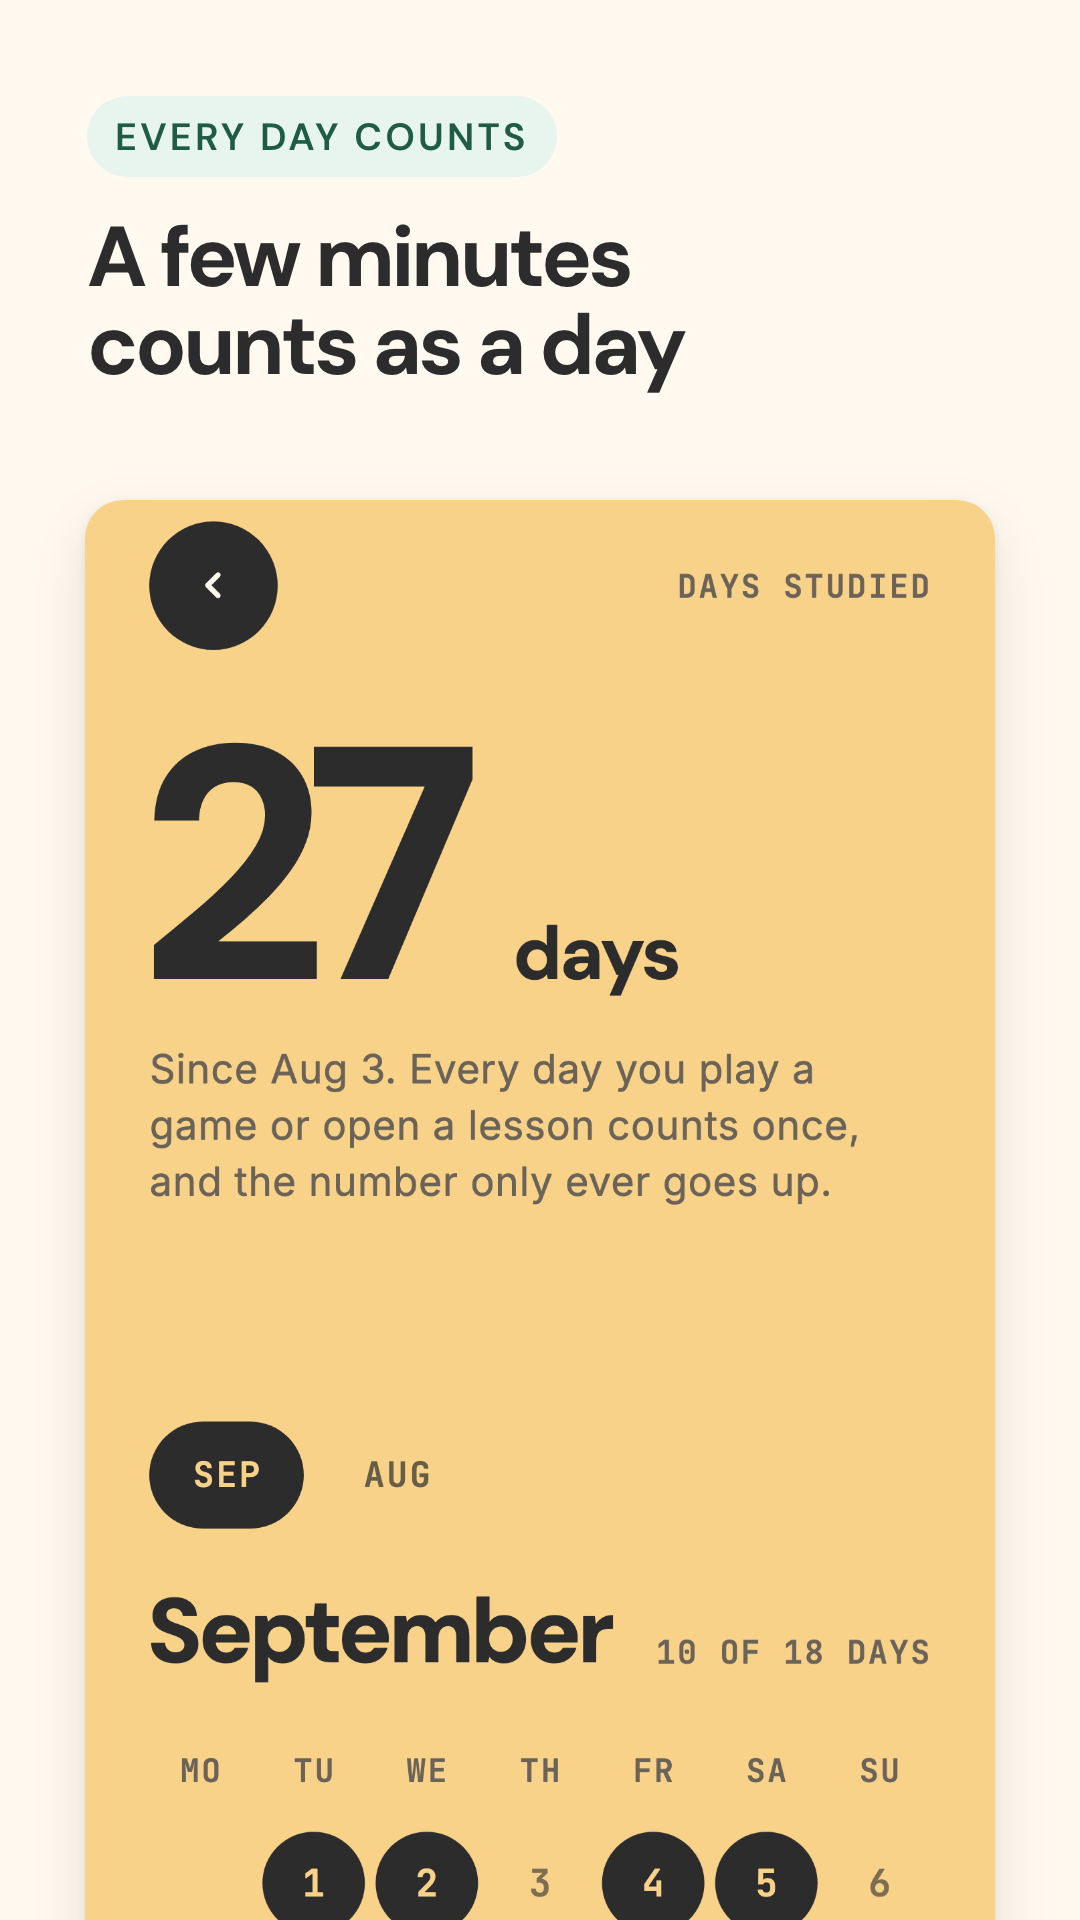
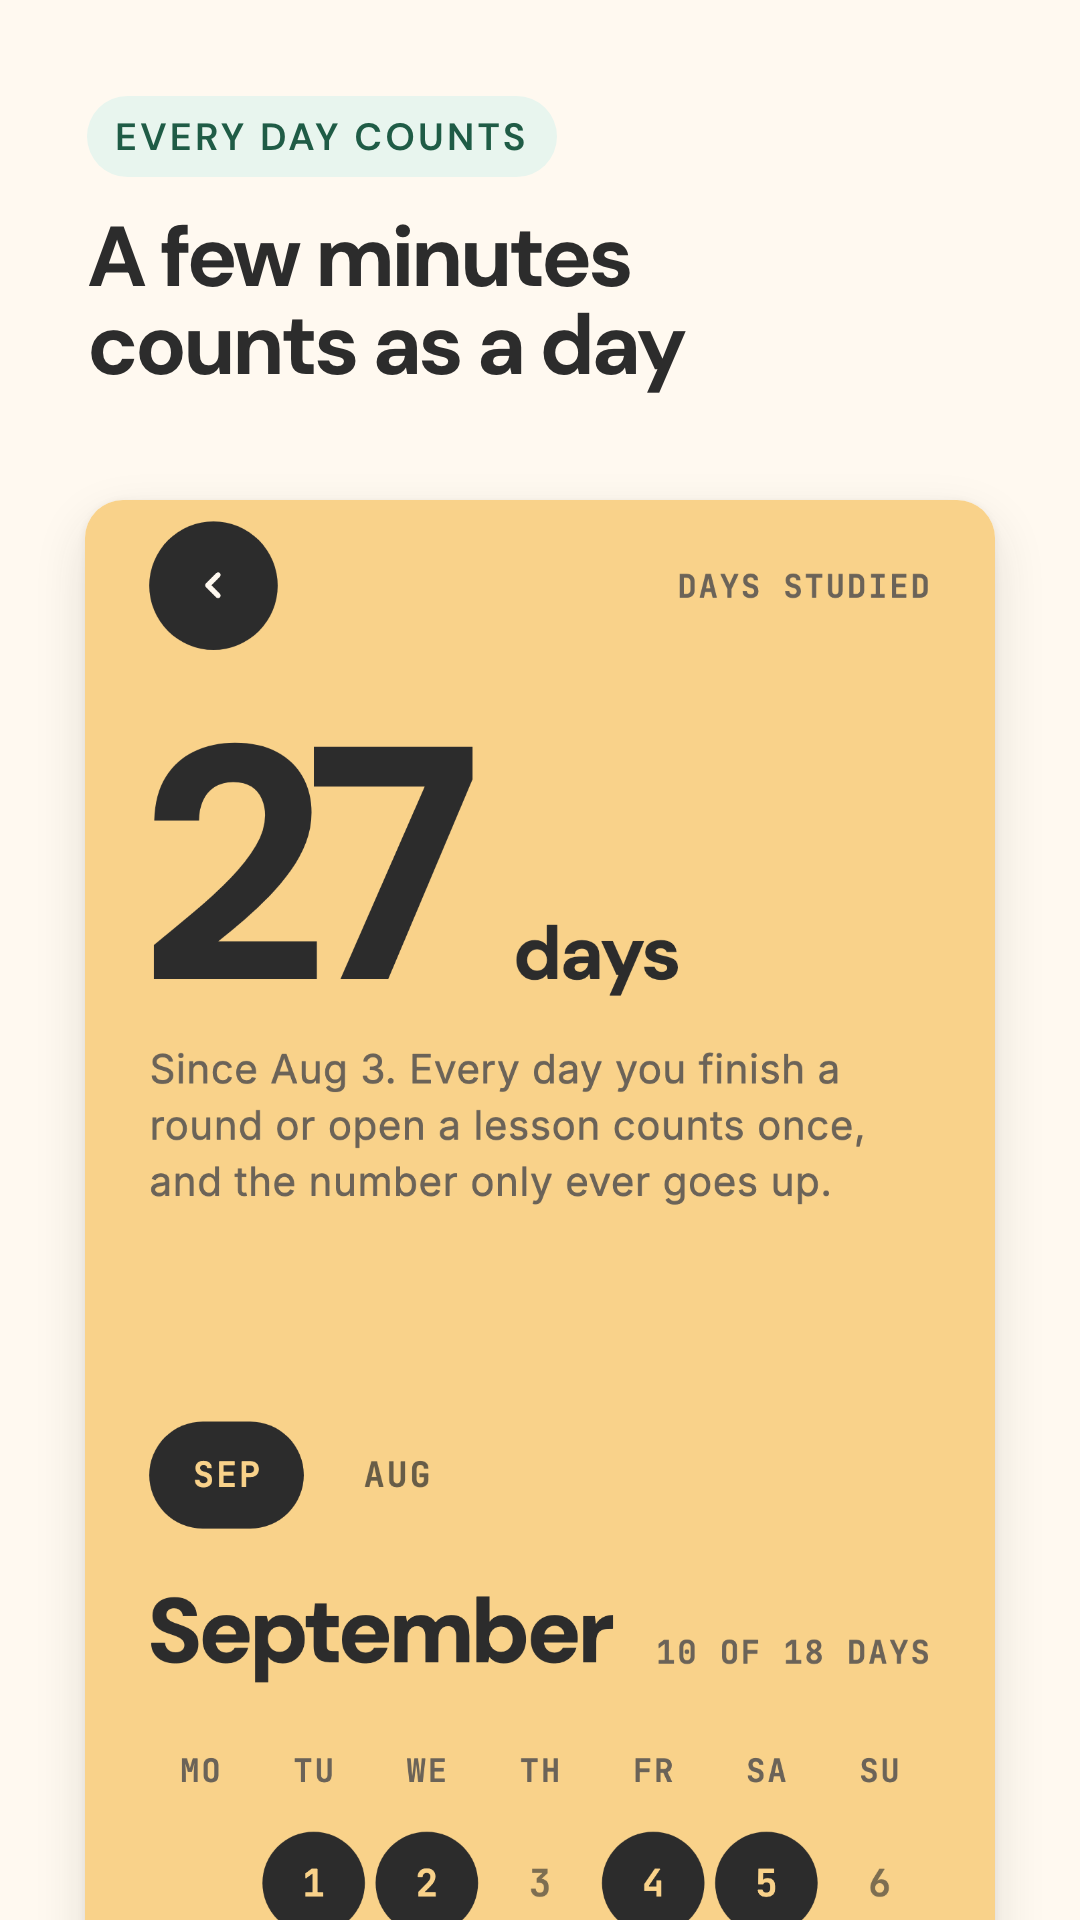
Say 'finish a round', not 'play a game', on the days-studied screen
The owner's rule was that the website must never call the app a game.
The app's own copy still did, in one place, and that one place is in
store screenshot 8 on both stores. Everywhere else the app already
calls them rounds.

Regenerates the golden, the appstore photograph and the Play poster.

Changed region(s): [[0.1528, 0.5312, 0.7944, 0.5938]]

diff --git a/mobile/lib/features/profile/study_days_screen.dart b/mobile/lib/features/profile/study_days_screen.dart
@@ -178,10 +178,10 @@ class _StudyDaysScreenState extends State<StudyDaysScreen> {
                     _failed
                         ? 'Could not load your days. Pull back and try again.'
                         : since == null
-                        ? 'Every day you play a game or open a lesson counts once, '
+                        ? 'Every day you finish a round or open a lesson counts once, '
                               'and the number only ever goes up.'
                         : 'Since ${_months[since.month - 1].substring(0, 3)} ${since.day}. '
-                              'Every day you play a game or open a lesson counts once, '
+                              'Every day you finish a round or open a lesson counts once, '
                               'and the number only ever goes up.',
                     style: AppTheme.body(
                       size: 15,
